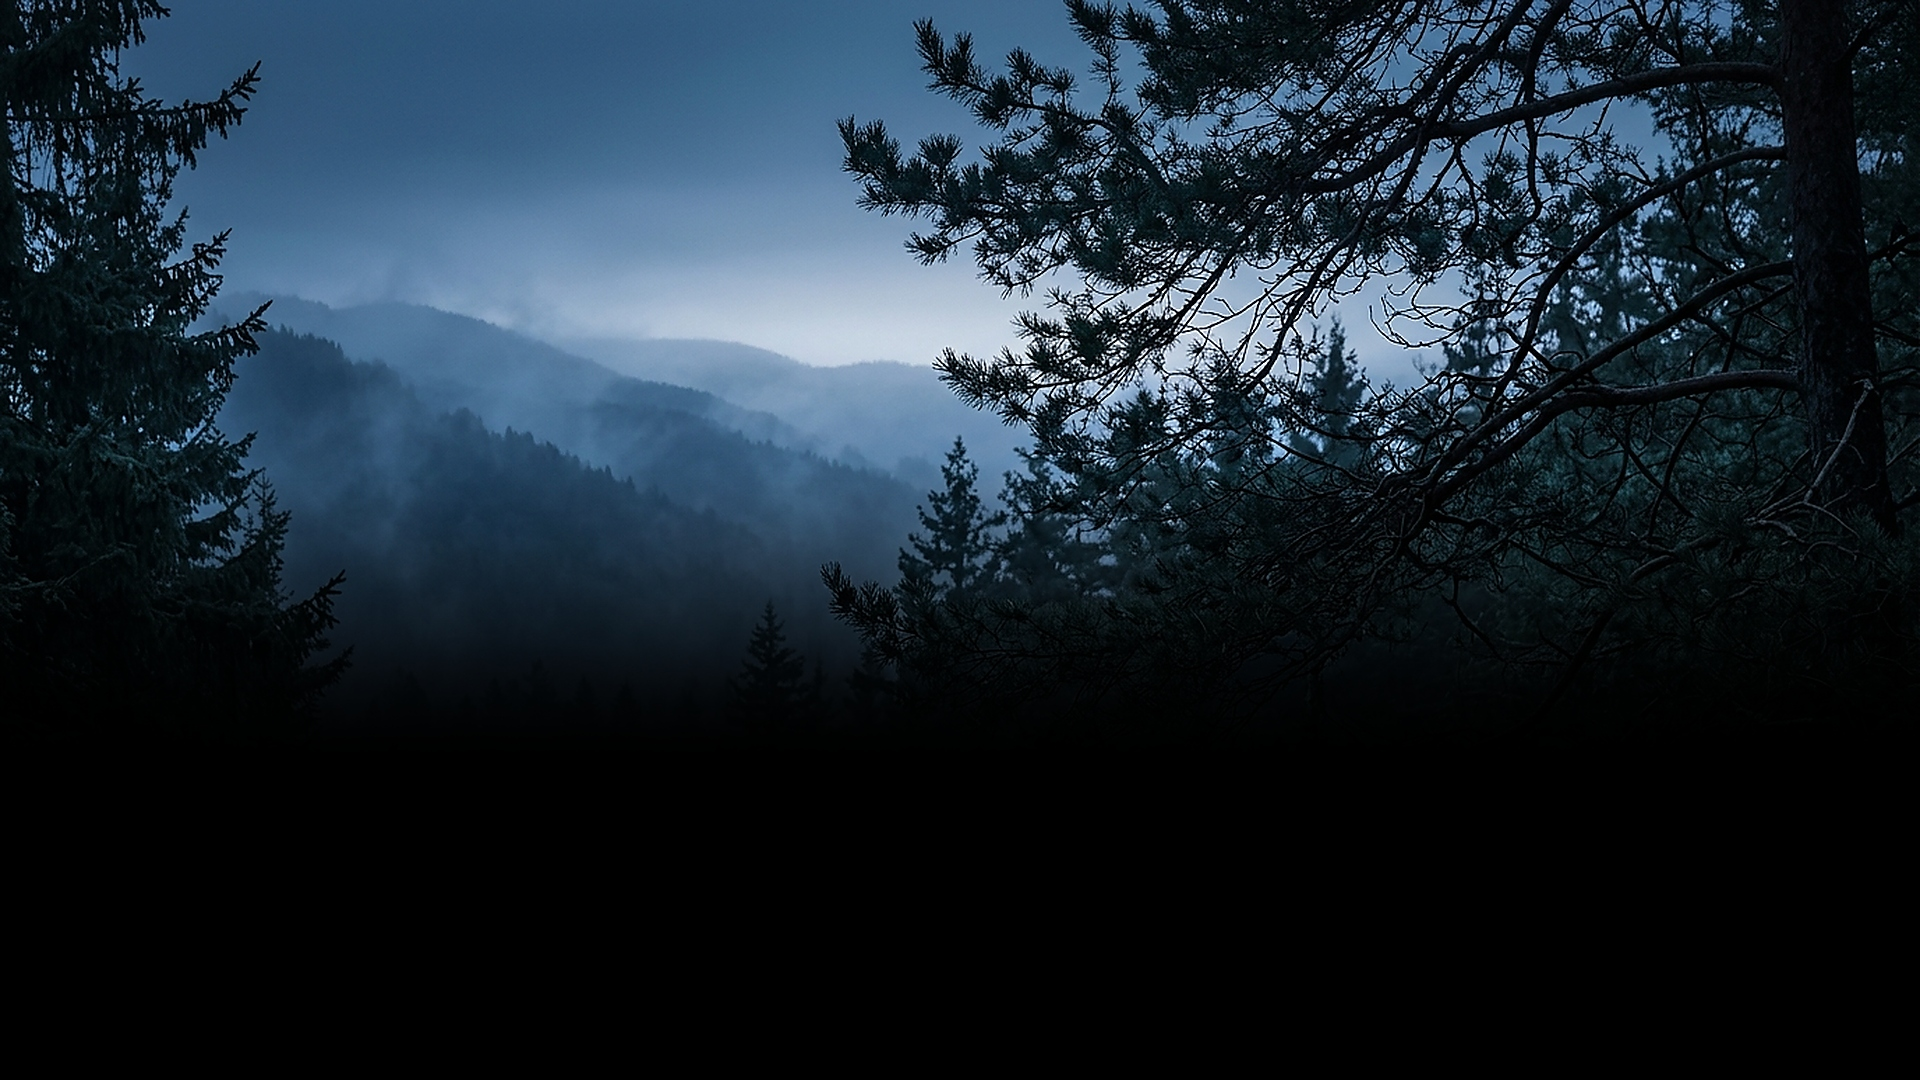
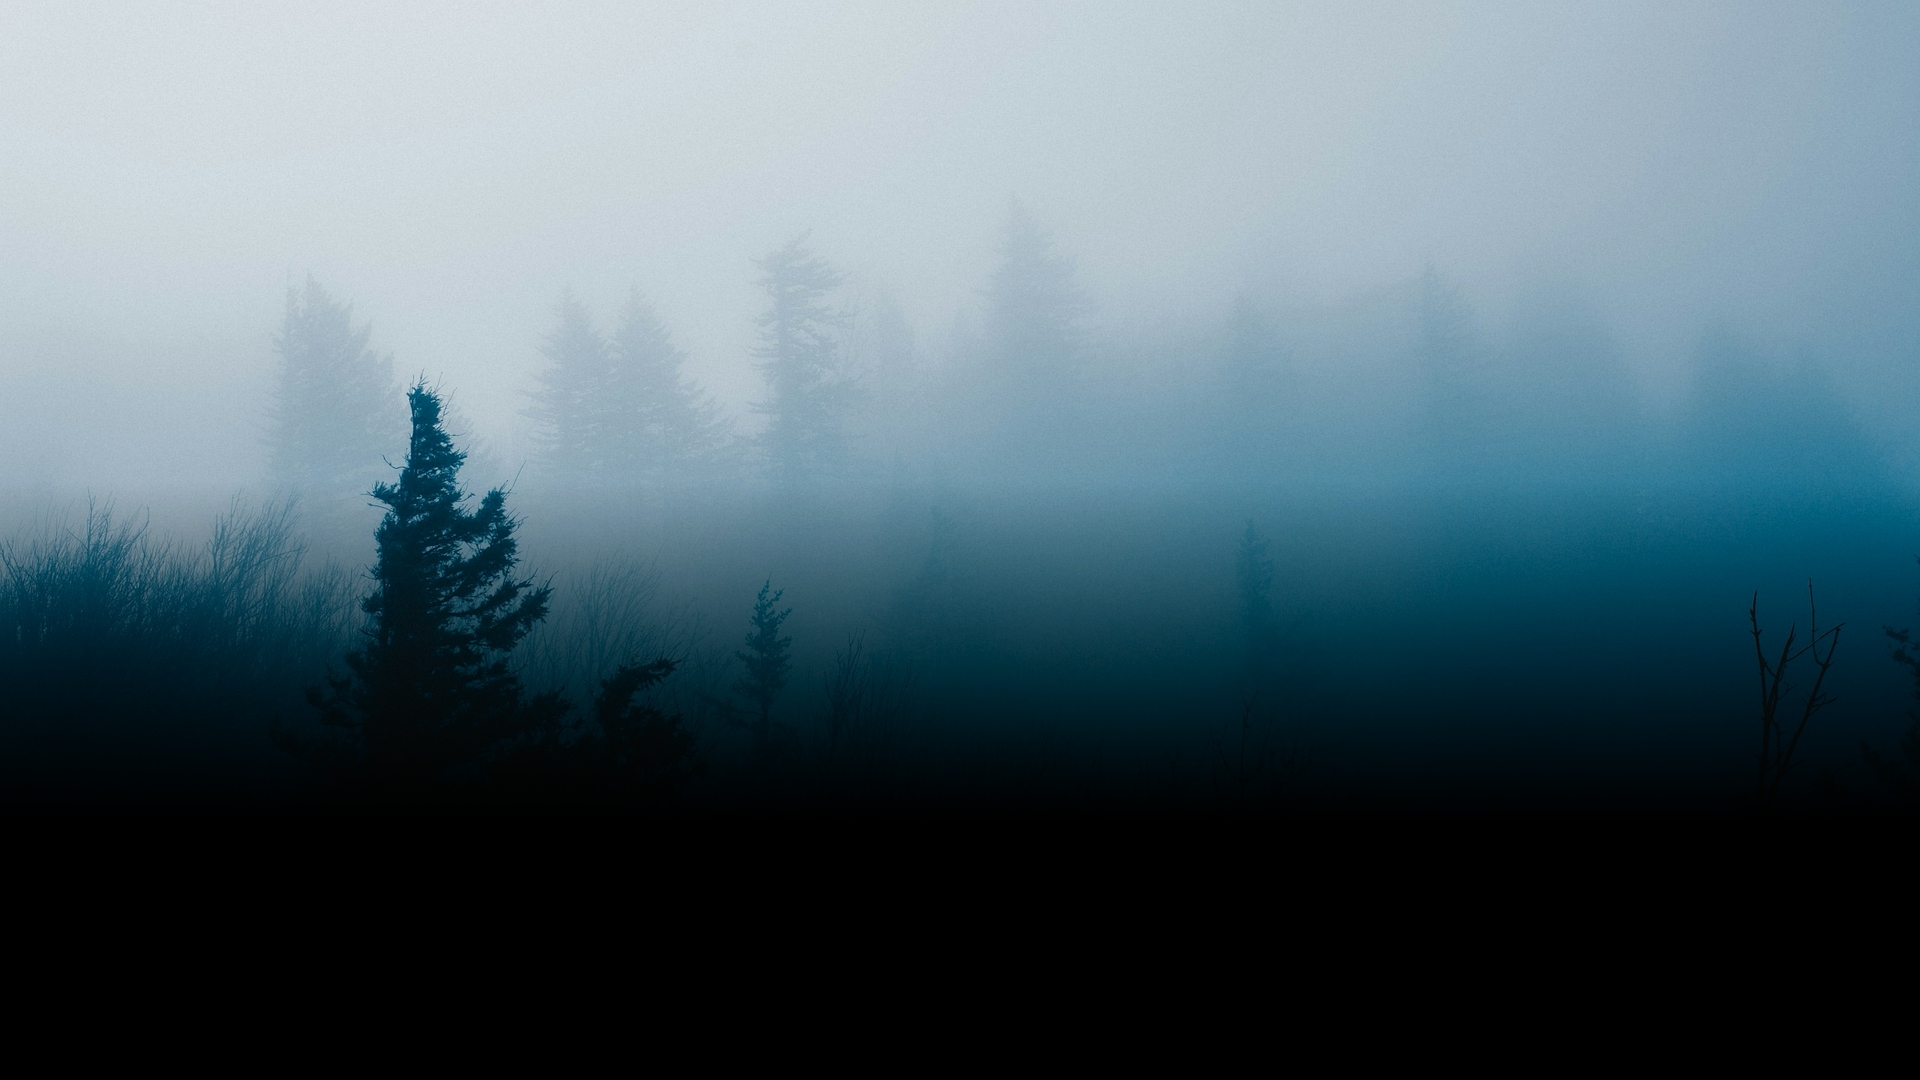
feat: clean 2-row layout with pristine Moody Nordic Fog photography wallpaper

diff --git a/launcher/app/src/main/java/com/gathin/tvhome/AppAdapter.java b/launcher/app/src/main/java/com/gathin/tvhome/AppAdapter.java
@@ -280,25 +280,13 @@ public class AppAdapter extends RecyclerView.Adapter<RecyclerView.ViewHolder> {
                     new ComponentName(ctx, HomeSettingsActivity.class), null,
                     ctx.getDrawable(R.drawable.ic_home_settings), null, 0));
         }
+        // Free dock slots
         docked = 0;
         while (docked < fresh.size() && favourites.contains(fresh.get(docked).pkg)) docked++;
         emptySlots = dockRow && !reordering ? DockSlots.empty(docked, dockSize, fresh.size(), fillDock) : 0;
         for (int i = 0; i < emptySlots; i++) {
             fresh.add(docked + i, new Entry(Entry.EMPTY, "", new ComponentName(ctx, "empty-dock-slot-" + i),
                     null, null, null, 0));
-        }
-        // Insert dedicated Jellyfin Movies Shelf directly after the dock row (Row 1)
-        JellyfinShowcase sc = JellyfinShowcase.get(ctx);
-        if (sc.hasMovies()) {
-            int insertPos = Math.min(dockSize, fresh.size());
-            List<JellyfinShowcase.Movie> movies = sc.getMovies();
-            for (int i = 0; i < movies.size(); i++) {
-                JellyfinShowcase.Movie m = movies.get(i);
-                Bitmap tileBmp = sc.loadTileBitmap(ctx, m.tileFile);
-                Drawable banner = tileBmp != null ? new android.graphics.drawable.BitmapDrawable(ctx.getResources(), tileBmp) : null;
-                ComponentName comp = new ComponentName(JellyfinShowcase.JELLYFIN_PKG, "movie." + m.id);
-                fresh.add(insertPos + i, new Entry(Entry.JELLYFIN_MOVIE, m.name, comp, banner, null, m.year, 0, m.title, i));
-            }
         }
         items.clear();
         items.addAll(fresh);
@@ -380,9 +368,8 @@ public class AppAdapter extends RecyclerView.Adapter<RecyclerView.ViewHolder> {
         h.card.setFocusable(true);
         ViewGroup.MarginLayoutParams nameLp = (ViewGroup.MarginLayoutParams) h.name.getLayoutParams();
         int cardW = h.card.getLayoutParams().width;
-        int targetW = e.kind == Entry.JELLYFIN_MOVIE ? (int) (cardW * 1.6f) : cardW;
-        if (nameLp.width != targetW) {
-            nameLp.width = targetW;
+        if (nameLp.width != cardW) {
+            nameLp.width = cardW;
             h.name.setLayoutParams(nameLp);
         }
         h.name.setText(e.name);
@@ -410,7 +397,6 @@ public class AppAdapter extends RecyclerView.Adapter<RecyclerView.ViewHolder> {
         }
         h.card.setOnClickListener(v -> launch(e));
         h.card.setOnLongClickListener(v -> {
-            if (e.kind == Entry.JELLYFIN_MOVIE) return true;
             Intent i = new Intent(Settings.ACTION_APPLICATION_DETAILS_SETTINGS, Uri.parse("package:" + e.pkg));
             i.addFlags(Intent.FLAG_ACTIVITY_NEW_TASK);
             try {
@@ -426,23 +412,6 @@ public class AppAdapter extends RecyclerView.Adapter<RecyclerView.ViewHolder> {
         if (e.kind == Entry.HOME_SETTINGS) {
             ctx.startActivity(new Intent(ctx, HomeSettingsActivity.class)
                     .addFlags(Intent.FLAG_ACTIVITY_NEW_TASK));
-            return;
-        }
-        if (e.kind == Entry.JELLYFIN_MOVIE) {
-            PackageManager pm = ctx.getPackageManager();
-            Intent i = pm.getLeanbackLaunchIntentForPackage(JellyfinShowcase.JELLYFIN_PKG);
-            if (i == null) i = pm.getLaunchIntentForPackage(JellyfinShowcase.JELLYFIN_PKG);
-            if (i != null) {
-                i.addFlags(Intent.FLAG_ACTIVITY_NEW_TASK | Intent.FLAG_ACTIVITY_RESET_TASK_IF_NEEDED);
-                try {
-                    ctx.startActivity(i);
-                    if (advancedEffects && ctx instanceof Activity) {
-                        ((Activity) ctx).overridePendingTransition(R.anim.app_open_enter, R.anim.app_open_exit);
-                    }
-                } catch (Exception ex) {
-                    Toast.makeText(ctx, ctx.getString(R.string.cant_open, e.label), Toast.LENGTH_SHORT).show();
-                }
-            }
             return;
         }
         Intent i = new Intent(Intent.ACTION_MAIN)
@@ -469,13 +438,11 @@ public class AppAdapter extends RecyclerView.Adapter<RecyclerView.ViewHolder> {
     int appCount() { return items.size(); }
 
     public boolean isMovieShelfAt(int position) {
-        return position >= 0 && position < items.size() && items.get(position).kind == Entry.JELLYFIN_MOVIE;
+        return false;
     }
 
     public int getMovieIndexAt(int position) {
-        if (position < 0 || position >= items.size()) return -1;
-        Entry e = items.get(position);
-        return e.kind == Entry.JELLYFIN_MOVIE ? e.movieIndex : -1;
+        return -1;
     }
 
     boolean isLibraryAt(int position) { return showLibrary && position == items.size(); }

diff --git a/launcher/app/src/main/java/com/gathin/tvhome/MainActivity.java b/launcher/app/src/main/java/com/gathin/tvhome/MainActivity.java
@@ -1030,25 +1030,7 @@ public class MainActivity extends Activity implements AppAdapter.TileListener {
             springY.animateToFinalPosition(y - glassScrollShift);
         }
         View item = (View) card.getParent();
-        if (adapter != null && adapter.isMovieShelfAt(position)) {
-            // Row 1: Dedicated Jellyfin Movie Shelf!
-            int movieIndex = adapter.getMovieIndexAt(position);
-            JellyfinShowcase.Movie m = JellyfinShowcase.get(this).getMovie(movieIndex);
-            if (m != null) {
-                showcaseActive = true;
-                heroName.setVisibility(View.GONE);
-                heroShown = false;
-
-                android.util.DisplayMetrics dm = getResources().getDisplayMetrics();
-                Bitmap backdrop = JellyfinShowcase.get(this).getBackdropBitmap(this, movieIndex, dm.widthPixels, dm.heightPixels);
-                if (backdrop != null) {
-                    setWallpaperBitmap(backdrop);
-                }
-            }
-            Rect want = new Rect(0, -(int) pad * 2, item.getWidth(), item.getHeight() + (int) pad);
-            grid.requestChildRectangleOnScreen(item, want, reducedMotion);
-        } else if (dockRow && position < COLUMNS) {
-            // Row 0: Dock row apps!
+        if (dockRow && position < COLUMNS) {
             if (showcaseActive) {
                 restoreDefaultWallpaper();
                 showcaseActive = false;
@@ -1064,7 +1046,6 @@ public class MainActivity extends Activity implements AppAdapter.TileListener {
             }
             showHero(position, scroll ? r.top - dy : r.top);
         } else {
-            // Row 2: Other apps!
             if (showcaseActive) {
                 restoreDefaultWallpaper();
                 showcaseActive = false;
